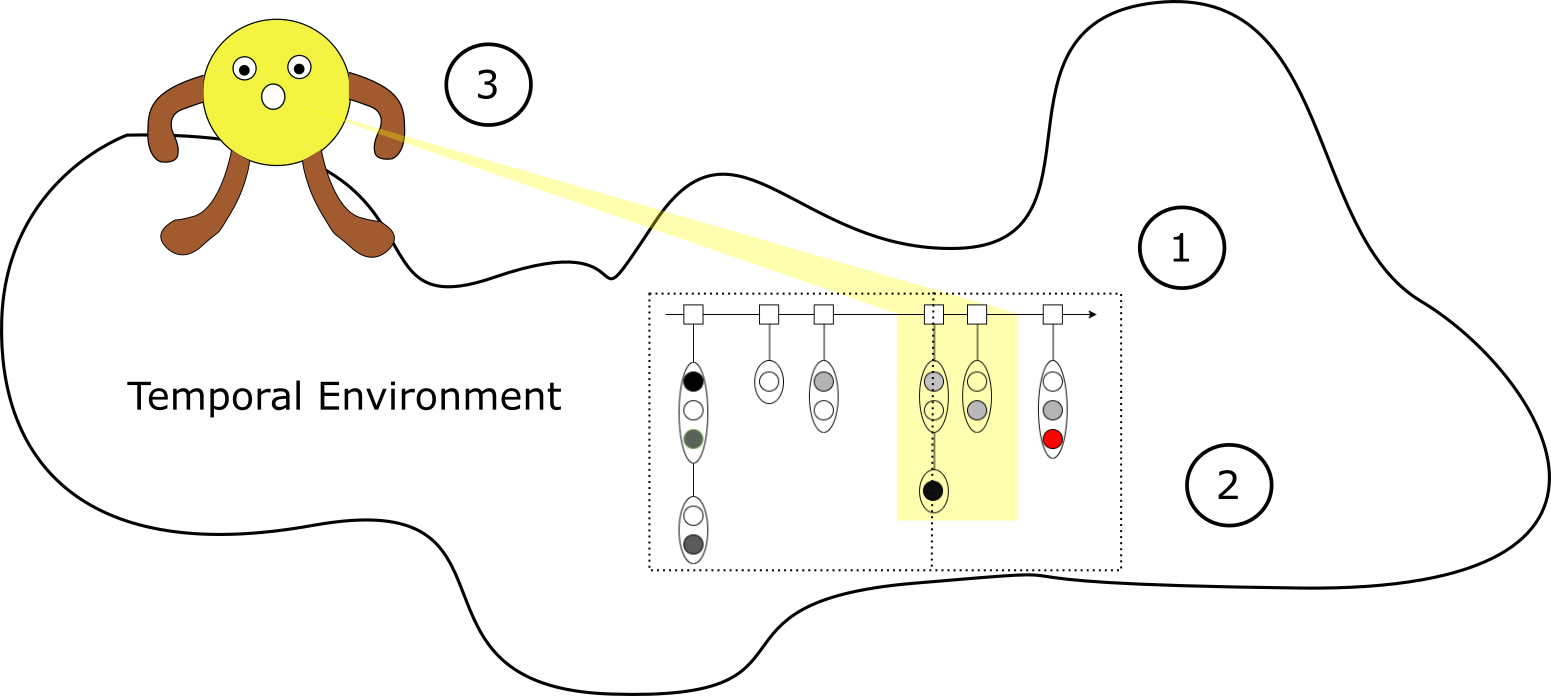
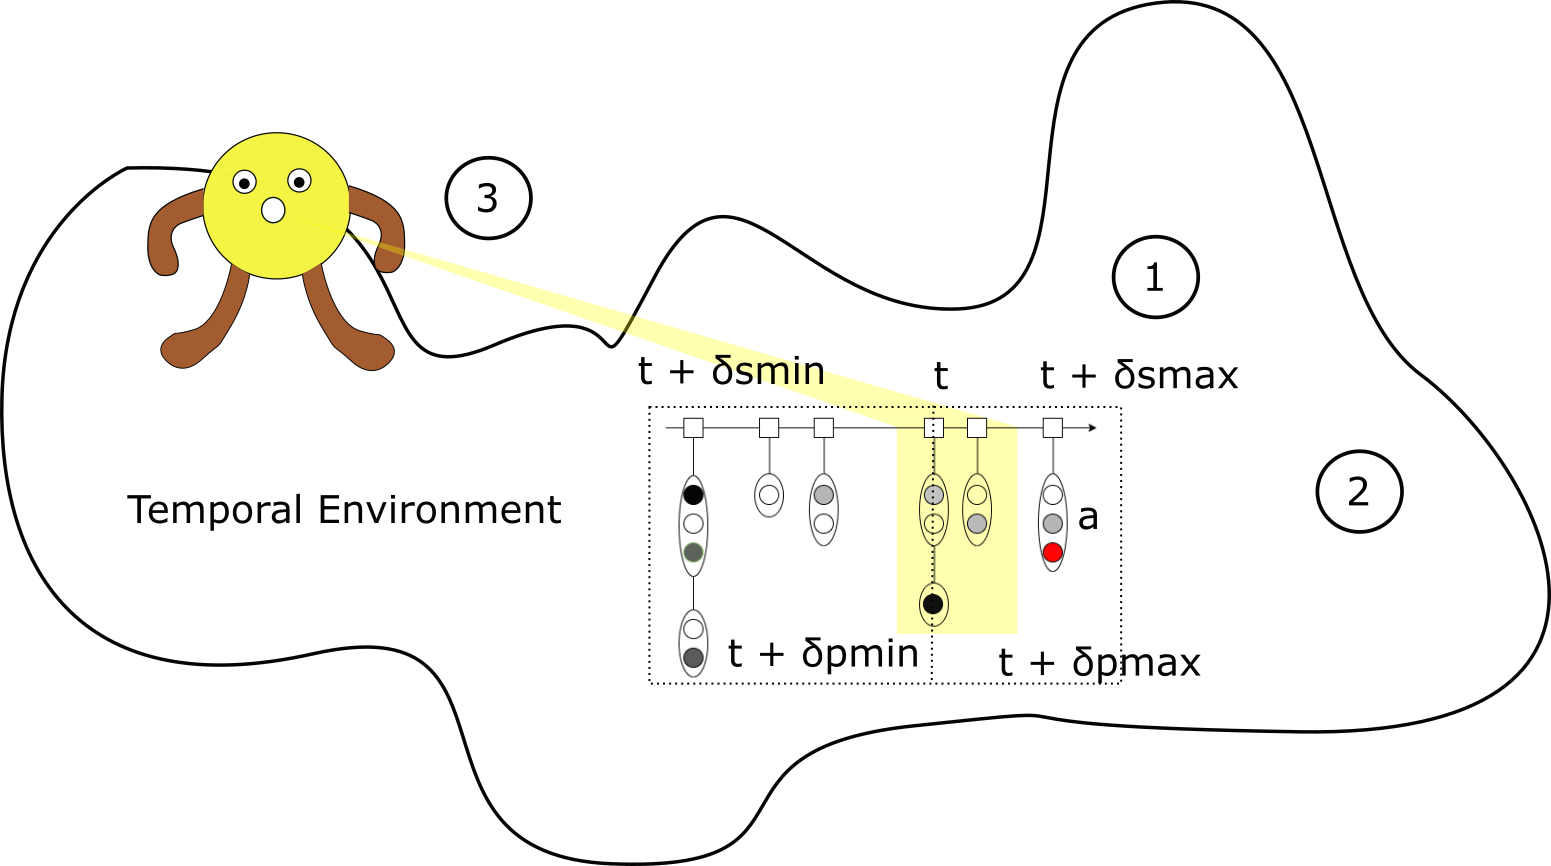
Updates from Overleaf

diff --git a/slides/introduction.tex b/slides/introduction.tex
@@ -1,38 +1,48 @@
 \begin{frame}{Context}{Multi-agent Simulation of Smart Cities}
-Application of multi-agent \alert{simulations} in the field of smart cities and smart islands. Example of London and Reunion Island cases. Collaboration with 
+\par Application of multi-agent \alert{simulations} in the field of smart cities and smart islands. 
+\medbreak
+\par Collaboration with 
     \begin{figure}
 	\includegraphics[width=2cm]{assets/icl.png}
 	\hspace{2cm}
 	\includegraphics[width=1cm]{assets/saintDenis.png}
     \end{figure}
-
+\medbreak
+\par Multi-agent simulation of \alert{electric vehicle} movement in a territory and their recharge with \alert{public charging point}
+    \begin{figure}
+	\includegraphics[width=1cm]{figures/electric-car.png}
+	\hspace{2cm}
+	\includegraphics[width=1cm]{figures/charging.png}
+    \end{figure}
+\par Example of London and Reunion Island cases
+\par Two (2) simulation models
 \note{
 Cette thèse s'inscrit dans le cadre d'un sous-thème développé par notre groupe de travail système collectif adaptatif (SCA) sur lequel nous travaillons avec des chercheurs de l'Imperial College London et la mairie de Saint-Denis de La Réunion. Dans ce cadre nous avons développé deux modèles de simulations multi-agents que nous avons particulièrement appliqué sur Londres et sur La Réunion. Nous travaillons sur 2 modèles de simulations multi-agents.
 }
     
 \end{frame}
 
-\begin{frame}{Context}{Simulation Models}
-\begin{figure}
-    \includegraphics[width=.6\linewidth]{figures/smartCityModel.png}
-    \caption{\textbf{SmartCityModel}\footnote{
+\begin{frame}{Context}{SmartCityModel\footnote{
     RALITERA, Tahina, FERARD, Maxime, BUSTOS-TURU, Gonzalo, et al. Steps Towards Simulating Smart Cities and Smart Islands with a Shared Generic Framework. In : Proceedings of the 6th International Conference on Smart Cities and Green ICT Systems. SCITEPRESS-Science and Technology Publications, Lda, 2017. p. 329-336.
     \medbreak
-    RALITERA, Tahina et COURDIER, Rémy. Toward Smart Island Simulation Application. In : International Conference on Practical Applications of Agents and Multi-Agent Systems. Springer, Cham, 2017. p. 457-469.
-    } built upon the \textbf{Repast Simphony} multi-agent simulation platform} 
+    RALITERA, Tahina et COURDIER, Rémy. Toward Smart Island Simulation Application. In : International Conference on Practical Applications of Agents and Multi-Agent Systems. Springer, Cham, 2017. p. 457-469.}}
+\begin{figure}
+    \includegraphics[width=.6\linewidth]{figures/smartCityModel.png}
+    \caption{\textbf{SmartCityModel} built upon the \textbf{Repast Simphony} multi-agent simulation platform and using SIG} 
 \end{figure}
 \note{
 
 
-\par Le premier esr SmartCityModel : qui a été utilisé pour différents scénario mais qui dans notre cadre a été utilisé pour la simulation de flux de mobilité de véhicules électriques sur un territoire. Il s'agit d'un modèle développé à l'origine par les chercheurs de l'ICL sur lequel nous avons contribué. Cela a notamment fait l'objet de deux publications. Ce modèle de simulation tourne sur la plateforme développée à l'internationale Repast Simphony. Vous pouvez notamment voir ici une capture d'écran de l'interface utilisateur de la simulation. Les agents sont des conducteurs de véhicules électriques ou/et des bornes de recharges électriques. Les voitures électriques sont affichées sous forme d'étoiles orange, ils se déplacent le long des routes qui sont affichées sous forme de lignes noirs.
+\par Le premier est SmartCityModel : qui a été utilisé pour différents scénario mais qui dans notre cadre a été utilisé pour la simulation de flux de mobilité de véhicules électriques sur un territoire. Il s'agit d'un modèle développé à l'origine par les chercheurs de l'ICL sur lequel nous avons contribué. Cela a notamment fait l'objet de deux publications. Ce modèle de simulation tourne sur la plateforme développée à l'internationale Repast Simphony. Vous pouvez notamment voir ici une capture d'écran de l'interface utilisateur de la simulation. Les agents sont des conducteurs de véhicules électriques ou/et des bornes de recharges électriques. Les voitures électriques sont affichées sous forme d'étoiles orange, ils se déplacent le long des routes qui sont affichées sous forme de lignes noirs.
+Cet environnement spatial est modélisé à partir de données SIG, coordonnées réelles.
 }
 \end{frame}
 
-\begin{frame}{Context}{Simulation Models}
+\begin{frame}{Context}{Simulation Models \footnote{AKY, Nathan, TAHINA, Ralitera, PAYET, Denis, et al. SkuadCityModel: Une simulation de déplacements urbains construite sur la plate-forme SKUAD. In : Journées Francophones Systèmes Multi-Agents (JFSMA'16)-Demonstration. Cepadues, 2018. p. 233-234.}}
 
 \begin{figure}
     \includegraphics[width=.6\linewidth]{figures/skuadCityModelGUI.png}
-    \caption{\textbf{SkuadCityModel}\footnote{AKY, Nathan, TAHINA, Ralitera, PAYET, Denis, et al. SkuadCityModel: Une simulation de déplacements urbains construite sur la plate-forme SKUAD. In : Journées Francophones Systèmes Multi-Agents (JFSMA'16)-Demonstration. Cepadues, 2018. p. 233-234.} built upon the \textbf{SimSKUAD} multi-agent simulation platform}
+    \caption{\textbf{SkuadCityModel} built upon the \textbf{SimSKUAD} multi-agent simulation platform and using SIG}
 \end{figure}
 
 \note{
@@ -46,7 +56,7 @@ Cette thèse s'inscrit dans le cadre d'un sous-thème développé par notre grou
 \begin{figure}
     \includegraphics[width=.5\linewidth]{figures/planning.png}
 \end{figure}
-\par Activity-based model
+\par \alert{Activity-based model}
         \begin{itemize}
             \item the movements result from the activities that the agents wish or have to perform
             \item the agents own an activity planning
@@ -79,9 +89,9 @@ Cette thèse s'inscrit dans le cadre d'un sous-thème développé par notre grou
 
 \begin{figure}
     \includegraphics[width=.4\linewidth]{figures/question.png}
-    \caption{ Example of the agent's anticipatory reasoning}
+    \caption{ Example of the agent's anticipatory reasoning in SmartCityModel and SkuadCityModel}
 \end{figure}
-\par The path choice in SmartCityModel or SkuadCityModel is based on the consideration of spatial dimension only: \alert{no consideration of the temporal dimension}
+\par The path choice is based on the consideration of spatial dimension only: \alert{no consideration of the temporal dimension} (planning)
 \note{
  Si nous prenons l'exemple du raisonnement anticipatif de l'agent dans SmartCityModel ou dans SkuadCityModel, afin de choisir un chemin parmis une liste de chemin ce dernier utilise une minimisation de la quantité prévisionnelle d'énergie requise pour effectuer le trajet. Pour cela, il prend en compte la valeur de la distance et de la pente. Aucune information temporelles, sur les projets individuelles relatives au planning d'activité des agents n'est pris en compte. Pourtant ce informations existent bel et bien au niveau de la simulation.
 }

diff --git a/slides/temporal_reasoning.tex b/slides/temporal_reasoning.tex
@@ -1,17 +1,23 @@
 \begin{frame}{Anticipatory Reasoning in multi-agent simulations}
 \begin{columns}
+\visible<1->{
 \begin{column}{.5\linewidth}
+\vspace{.3cm}
 \begin{figure}
     \includegraphics[width=\linewidth]{figures/classic_anticipation.png}
     \caption{Classical anticipatory reasoning}
 \end{figure}
+
 \end{column}
+}
+\visible<2->{
 \begin{column}{.5\linewidth}
 \begin{figure}
     \includegraphics[width=\linewidth]{figures/new_anticipation.png}
     \caption{Anticipatory reasoning using the temporal environment perception}
 \end{figure}
 \end{column}
+}
 \end{columns}
 \note{
 \par Dans la plupart des approches classiques d'anticipation dans les sma, le raisonnement anticipatif prend en compte uniquement les informations sur la dimension passée et la dimension présente du temps. Dans ces types d'approches, l'agent est contraint de deviner ce qui va se passer dans le futur, car ils n'a aucune information sur le planning d'activités des autres agents. Pour se faire, les agents lancent en interne des microsimulations qui génèrent des prédictions. Dans beaucoup d'approches, ces microsimulations reproduisent tout une une partie du modèle de simulation véritablement utilisé.
@@ -35,6 +41,7 @@
 \end{frame}
 
 \begin{frame}{A consideration of the future}{Application}
+\par Question agents activity schedule
 \par \textbf{Objectives}:
 \begin{itemize}
     \item Assess or reassess the feasibility of carrying out an activity
@@ -42,7 +49,7 @@
     \item Enrich and bring more precision to the agent's activity planning
 \end{itemize}
 \begin{figure}
-    \includegraphics[width=.6\linewidth]{figures/anticipation_cycle.png}
+    \includegraphics[width=.5\linewidth]{figures/anticipation_cycle.png}
     \caption{Anticipatory reasoning}
 \end{figure}
 \note{
@@ -64,19 +71,23 @@ Dans le raisonnement anticipatif que nous mettons en place au sein des agents du
 
 \begin{frame}{Temporal reasoning}{Example and implementation}
 \begin{columns}
+\visible<1->{
 \begin{column}{.33\linewidth}
 \begin{figure}
     \includegraphics[width=.85\linewidth]{figures/one.png}
    \caption{Classical approach}
 \end{figure}
 \end{column}
+}
+\visible<2->{
 \begin{column}{.33\linewidth}
 \vspace{.3cm}
 \begin{figure}
     \includegraphics[width=.85\linewidth]{figures/two.png}
-    \caption{Classical approach (advanced version)}
 \end{figure}
 \end{column}
+}
+\visible<3->{
 \begin{column}{.33\linewidth}
 \vspace{.4cm}
 \begin{figure}
@@ -84,6 +95,7 @@ Dans le raisonnement anticipatif que nous mettons en place au sein des agents du
     \caption{Anticipatory reasoning using the temporal environment perception}
 \end{figure}
 \end{column}
+}
 \end{columns}
 
 

diff --git a/slides/time_representation.tex b/slides/time_representation.tex
@@ -103,13 +103,13 @@ RALITERA, Tahina, PAYET, Denis, AKY, Nathan, et al. The Temporality Model Time S
 
 \begin{frame}{The Temporal Environment}{Temporal information storage and perception}
 \begin{figure}
-    \includegraphics[width=.7\linewidth]{figures/horizon.png}
+    \includegraphics[width=.55\linewidth]{figures/horizon.png}
     \caption{The temporal environment: Storage and perception}
 \end{figure}
 \begin{enumerate}
-     \item Absolute time horizon or storage time horizon of the temporal environment
-     \item Accessibility rules. \textit{Ex: public or private}
-    \item Relative time horizon or time horizon of perception of the agents
+     \item Absolute time horizon or storage time horizon of the temporal environment $[t-\delta smin,t+\delta smax]$
+     \item Accessibility rules $a$. \textit{Ex: public or private}
+    \item Relative time horizon or time horizon of perception of the agents $[t-\delta pmin,t+\delta pmax]$
 \end{enumerate}
 
 \note{
@@ -136,7 +136,7 @@ Afin de gérer le stockage et la perception des informations temporelles, nous m
 \end{frame}
 
 
-\begin{frame}{The Temporal Environment}{Example and implementation}
+\begin{frame}{The Temporal Environment}{Example and implementation \footnote{Simulation model using influence/reaction interaction model}}
 \begin{columns}
 \visible<1->{
 \begin{column}{.4\linewidth}
